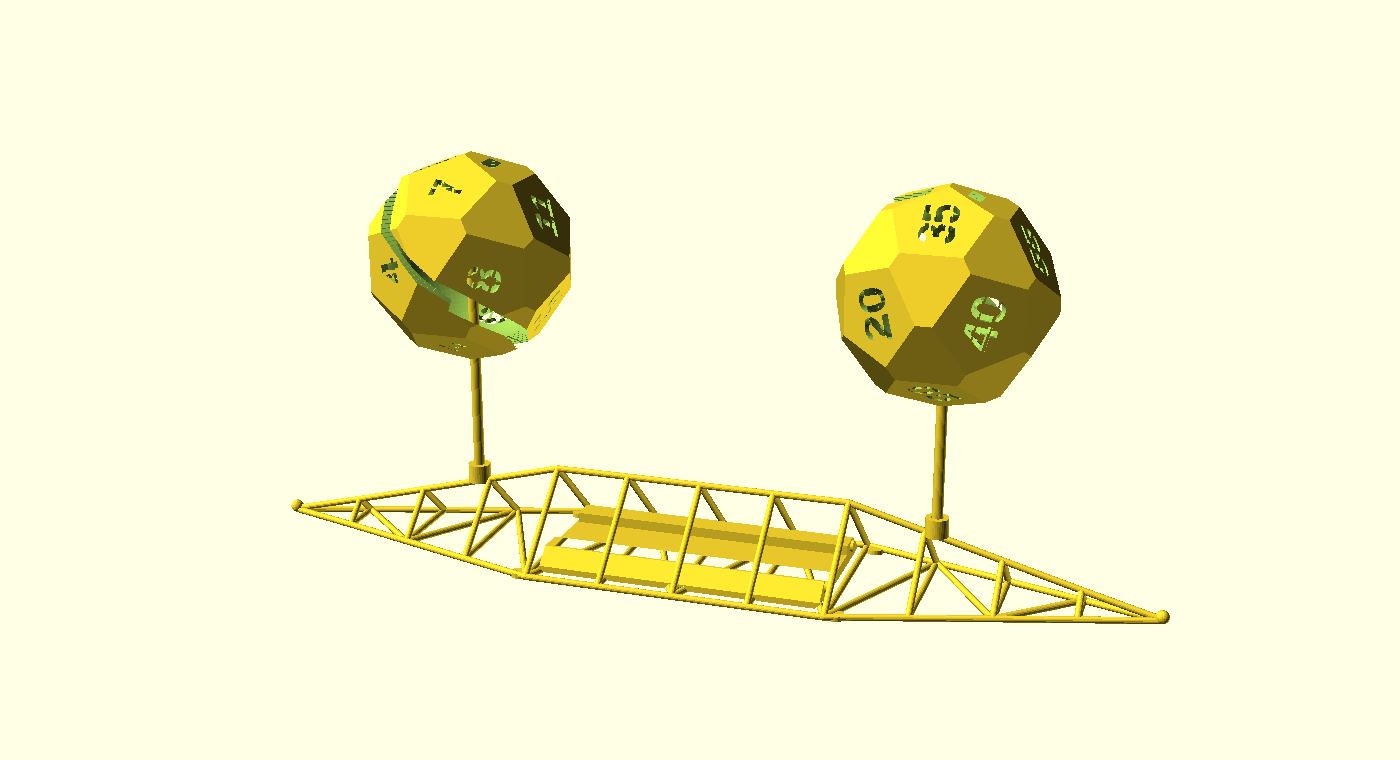
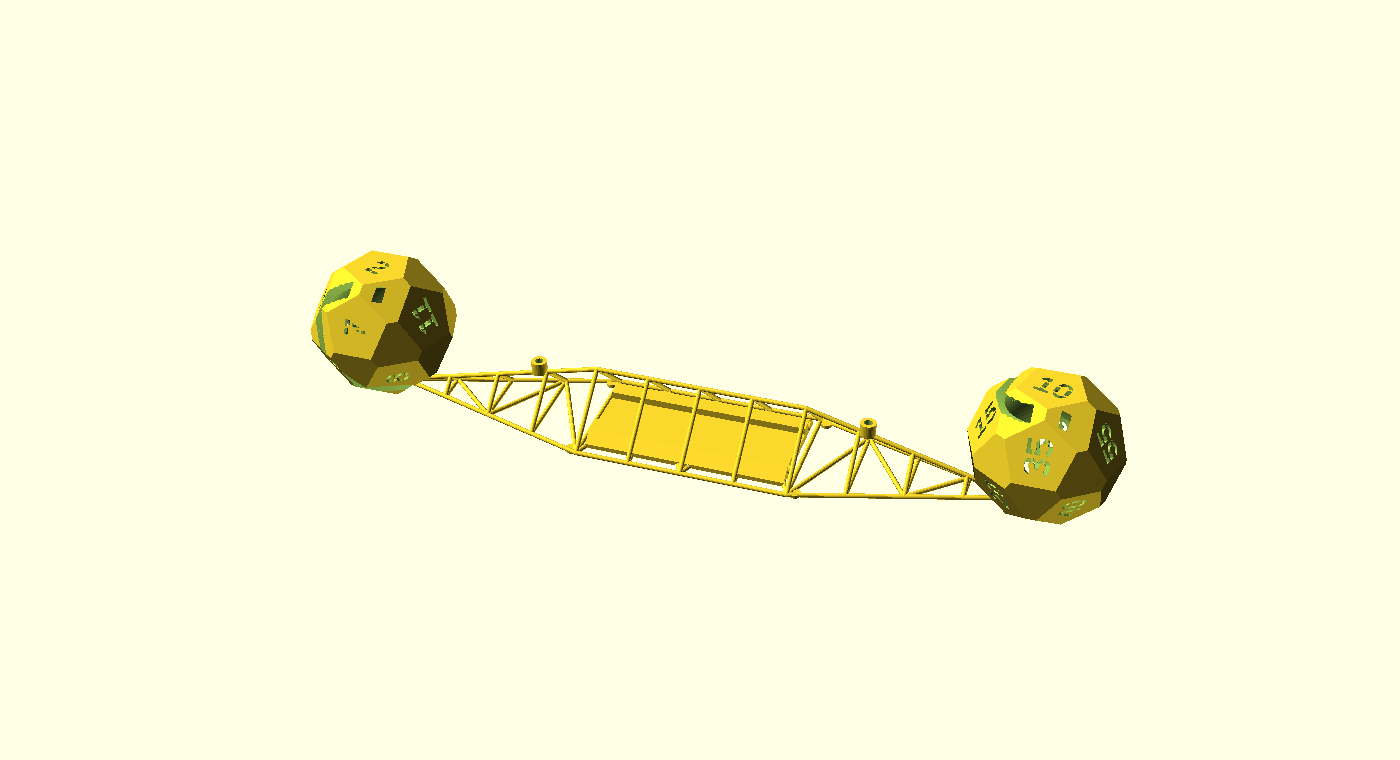
docs(ovodyo): what-ships pose + caption match interim display
Balls stand pole-flat past the wing tips (not on stalks); CGAL render so
cut faces stay one colour; caption drops the false "white / plate" claims.
Addresses Drik R4 non-blocking notes. Refs #768.

Changed region(s): [[0.215, 0.1816, 0.8293, 0.8474]]

diff --git a/designs/ovodyo/previews/CAMERAS.md b/designs/ovodyo/previews/CAMERAS.md
@@ -20,6 +20,7 @@ fixed once reviewed; a new region gets a new line).
   each pod, bevel take-off up each stalk, central electronics bay.
 - **base-mech-in-situ** — the same drivetrain seated in the truss so the gears
   have scale and a home (companion to frozen `base-mech`; new line).
-- **what-ships** — single-material honesty shot of the printable silhouette
-  (shells + bare truss + stalks, no red cores or gear theatre). Lives beside the
-  v0 banner; must not replace the hero.
+- **what-ships** — single-material honesty shot: shells + bare truss, balls
+  standing pole-down beside the base (the interim display; not on stalks).
+  Rendered with CGAL (`render`) so cut faces stay one colour. Beside the v0
+  banner; must not replace the hero.

diff --git a/designs/ovodyo/README.md b/designs/ovodyo/README.md
@@ -41,7 +41,10 @@ re-creation, in print-bench, of the "ovodyo" clock by Mectolab — built as a
 
 ![What ships (single-material)](previews/what-ships.png)
 
-*What a single-material print looks like: white shells with void numerals, bare truss, no red interior or gear theatre. The two-tone hero above is the intent; this is the plate.*
+*What a single-material print looks like (OpenSCAD default yellow — one colour).
+Shells with void numerals and the bare truss; no gear theatre. Balls sit on
+their pole pentagons beside the base, the interim display until [#604](https://github.com/shaiss/print-bench/issues/604)
+lands a retained mount. The two-tone hero above is the intent.*
 
 ![4-view contact sheet](previews/contact-sheet.png)
 
